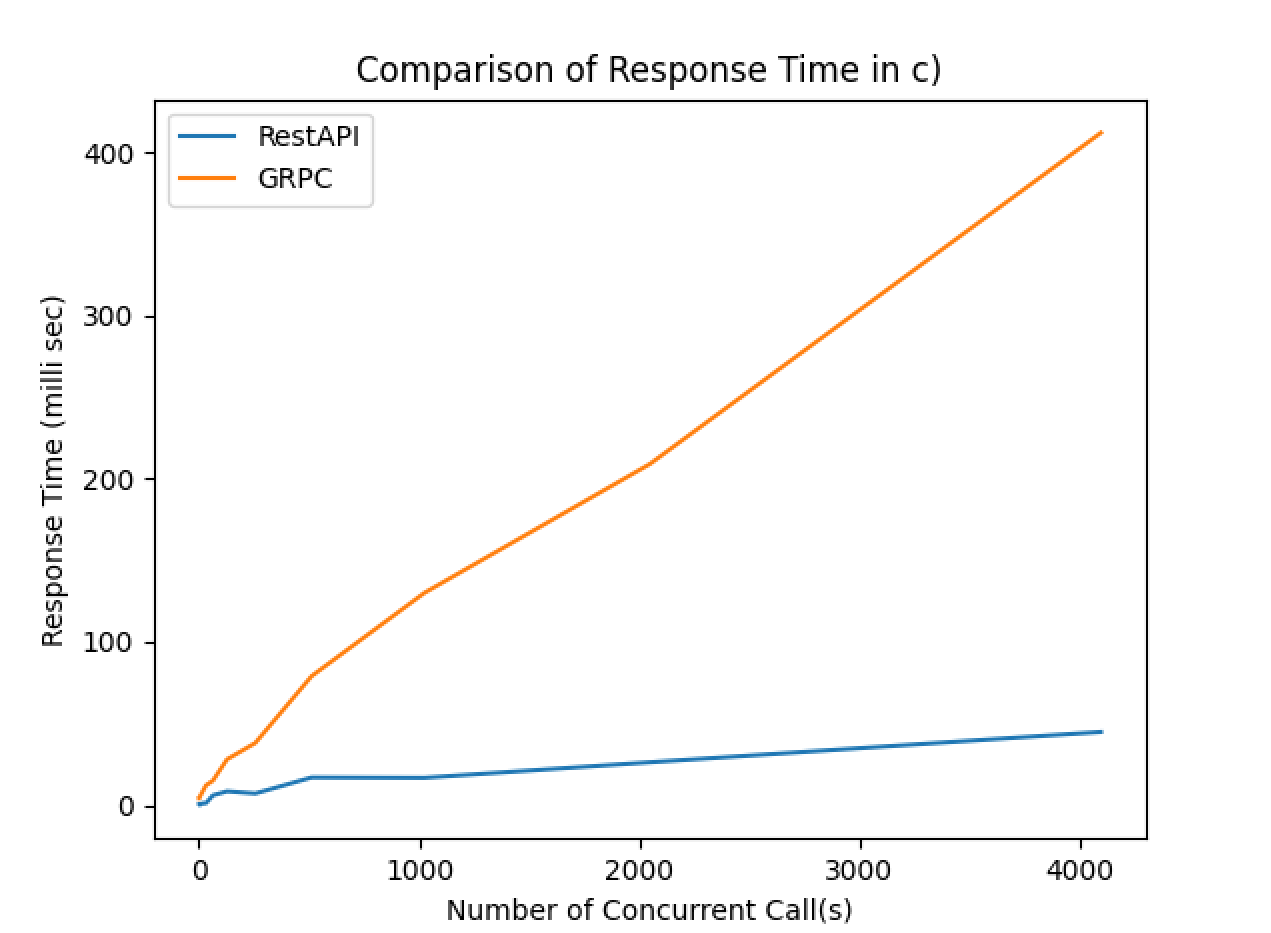
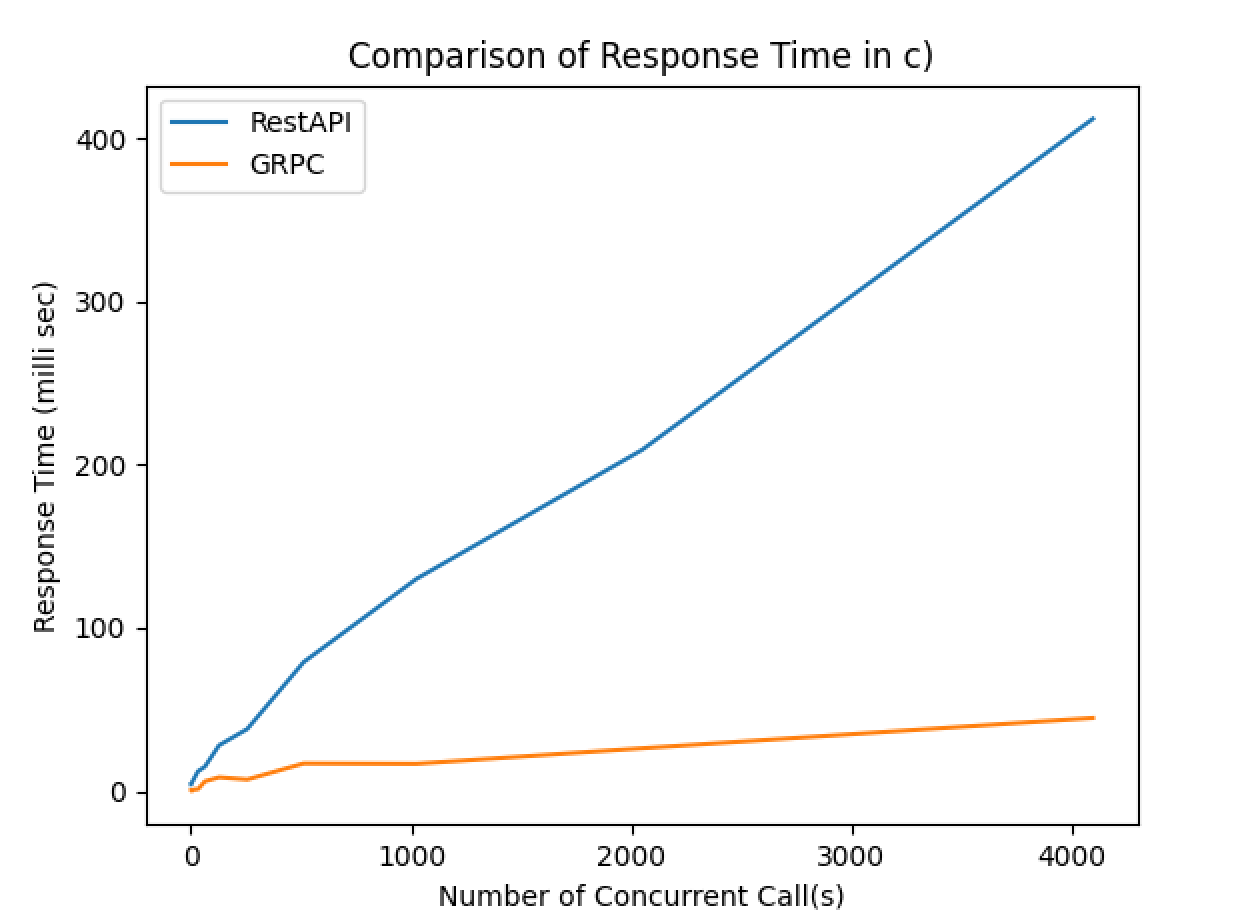
Finish Assignment

Changed region(s): [[0.0312, 0.0304, 0.9048, 1.0], [0.2184, 0.577, 0.4056, 0.7592]]

diff --git a/Answers/ExerciseC/PlotC.py b/Answers/ExerciseC/PlotC.py
@@ -1,13 +1,11 @@
 import matplotlib.pyplot as plt
-import os
-THIS_FOLDER = os.path.dirname(os.path.abspath(__file__))
 
 xaxis = [1,2,4,8,16,32,64,128,256,512,1024,2048,4096]
 RestTime = []
 GRPCTime = []
 
-RestTimeFile = open(os.path.join(THIS_FOLDER, 'RESTConcurrent.txt'),'r')
-GRPCTimeFile = open(os.path.join(THIS_FOLDER, 'GRPCConcurrent.txt'), 'r')
+RestTimeFile = open('C:/Users/World/Desktop/SoftArc/Assignment2/Old_man_Assignment2/Answers/ExerciseC/RESTConcurrent.txt','r')
+GRPCTimeFile = open('C:/Users/World/Desktop/SoftArc/Assignment2/Old_man_Assignment2/Answers/ExerciseC/GRPCConcurrent.txt' , 'r')
 
 for line in RestTimeFile:
     time = line.strip()   
@@ -20,12 +18,15 @@ for line in GRPCTimeFile:
     GRPCTime.append(ftime*1000)
 
 plt.xlabel('Number of Concurrent Call(s)')
-plt.ylabel('Response Time (millisec)')
+plt.ylabel('Response Time (milli sec)')
 
-plt.plot(xaxis, RestTime , label = 'RestAPI') 
-plt.plot(xaxis, GRPCTime , label = 'GRPC') 
+plt.plot(xaxis, GRPCTime , label = 'RestAPI') 
+plt.plot(xaxis, RestTime , label = 'GRPC') 
 
 plt.title('Comparison of Response Time in c)')
 
 plt.legend()
 plt.show() 
+
+
+

diff --git a/Answers/ExerciseB/PlotB.py b/Answers/ExerciseB/PlotB.py
@@ -50,12 +50,12 @@ for line in GRPC3:
 plt.xlabel('Number of Call(s)')
 plt.ylabel('Response Time (millisec)')
 
-plt.plot(xaxis, RestGet , label = 'RestAPI Get')
-plt.plot(xaxis, RestInsert , label = 'RestAPI Insert') 
-plt.plot(xaxis, RestList , label = 'RestAPI List') 
-plt.plot(xaxis, GRPCGet , label = 'GRPC Get') 
-plt.plot(xaxis, GRPCInsert , label = 'GRPC Insert') 
-plt.plot(xaxis, GRPCList , label = 'GRPC List') 
+plt.plot(xaxis, GRPCGet , label = 'RestAPI Get')
+plt.plot(xaxis, GRPCInsert , label = 'RestAPI Insert') 
+plt.plot(xaxis, GRPCList , label = 'RestAPI List') 
+plt.plot(xaxis, RestGet , label = 'GRPC Get') 
+plt.plot(xaxis, RestInsert , label = 'GRPC Insert') 
+plt.plot(xaxis, RestList , label = 'GRPC List') 
 
 plt.title('Comparison of Response Time in b)')
 

diff --git a/Answers/ExerciseA/PlotA.py b/Answers/ExerciseA/PlotA.py
@@ -31,11 +31,11 @@ for line in GRPC2:
     ftime = float(time)
     GRPCTime.append(ftime*1000)
 
-plt.xlabel('Number of Call(s)')
+plt.xlabel('Number of Book(s)')
 plt.ylabel('Response Time (millisec)')
 
-plt.plot(xaxis, RestTime , label = 'RestAPI') 
-plt.plot(xaxis, GRPCTime , label = 'GRPC') 
+plt.plot(xaxis, GRPCTime , label = 'RestAPI') 
+plt.plot(xaxis, RestTime , label = 'GRPC') 
 
 plt.title('Comparison of Response Time in a)')
 
